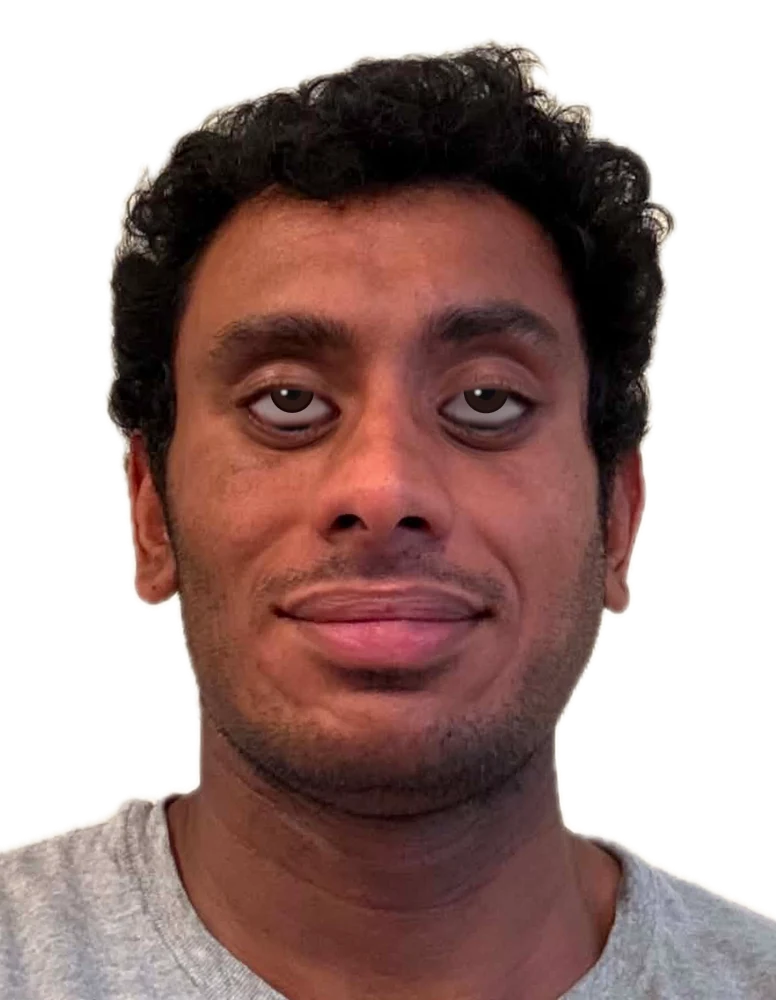
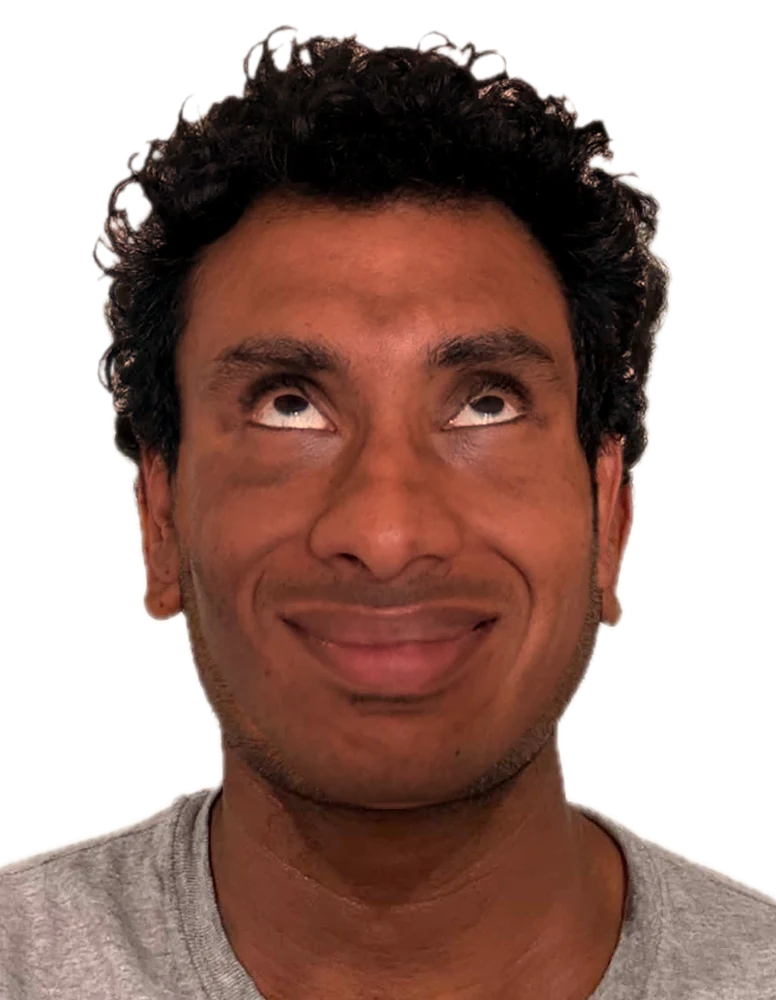
Use the real adit5 photo for the looking-up pose, in the grey t-shirt
adit5 was shot in a hoodie and cooler light. compose_lookup.py cuts its head
along the jawline, drops the hoodie, sets it on adit3's neck and t-shirt, and
warms the skin to match the other poses. Replaces the synthetic eye-widening
(make_lookup.py, removed).

diff --git a/scripts/eye_regions.swift b/scripts/eye_regions.swift
@@ -1,5 +1,5 @@
 // Print eye-contour and pupil landmarks (pixel coords, top-left origin) as JSON.
-// Used by make_lookup.py to synthesise the "looking up" pose from adit1.
+// Used by compose_lookup.py (jawline seam + skin sampling for the looking-up pose).
 //
 //   swift scripts/eye_regions.swift assets/adit1-cut.png
 
@@ -33,4 +33,5 @@ func pts(_ r: VNFaceLandmarkRegion2D?) -> String {
 
 print("{\"w\":\(Int(W)),\"h\":\(Int(H)),"
     + "\"leftEye\":\(pts(lm.leftEye)),\"rightEye\":\(pts(lm.rightEye)),"
-    + "\"leftPupil\":\(pts(lm.leftPupil)),\"rightPupil\":\(pts(lm.rightPupil))}")
+    + "\"leftPupil\":\(pts(lm.leftPupil)),\"rightPupil\":\(pts(lm.rightPupil)),"
+    + "\"faceContour\":\(pts(lm.faceContour))}")

diff --git a/scripts/compose_lookup.py b/scripts/compose_lookup.py
@@ -1,0 +1,140 @@
+#!/usr/bin/env python3
+"""
+Build the "looking up" pose (assets/adit5-cut) from the adit5 photo.
+
+The adit5 photo is a close crop in a hoodie; every other pose wears the grey
+t-shirt. So the head from adit5 is placed on the neck + t-shirt of adit3 (also
+a looking-up pose, so the neck angle matches). Both are already registered to
+the shared eye anchor by build_portraits.py, and their chins land within a few
+pixels of each other, so the seam can follow adit5's jawline.
+
+  head  = adit5 above its jawline, minus any hoodie fabric
+  body  = adit3 (neck + t-shirt), with the neck skin nudged toward adit5's tone
+
+Run after build_portraits.py:
+  /opt/anaconda3/bin/python3 scripts/compose_lookup.py
+"""
+from __future__ import annotations
+
+import json
+import pathlib
+import subprocess
+
+import numpy as np
+from PIL import Image
+from scipy import ndimage
+
+ROOT = pathlib.Path(__file__).resolve().parent.parent
+HEAD = ROOT / "scripts" / "_lifted" / "adit5-head.png"
+BODY = ROOT / "assets" / "adit3-cut.png"
+OUT = ROOT / "assets" / "adit5-cut"
+
+JAW_DROP = 4        # px below the detected jawline that still counts as head
+SEAM_FEATHER = 1.6  # px of blur on the head mask edge
+TONE_BLEND = 0.9    # how far to warm the head toward the body photo's skin tone
+
+
+def landmarks(path: pathlib.Path) -> dict:
+    out = subprocess.run(
+        ["swift", str(ROOT / "scripts" / "eye_regions.swift"), str(path)],
+        capture_output=True, text=True, check=True,
+    )
+    return json.loads([l for l in out.stdout.splitlines() if l.startswith("{")][-1])
+
+
+def jaw_curve(contour: np.ndarray, w: int) -> tuple[np.ndarray, int, int]:
+    """y of the jawline for each x inside the face contour (NaN outside)."""
+    c = contour[np.argsort(contour[:, 0])]
+    x0, x1 = int(np.ceil(c[0, 0])), int(np.floor(c[-1, 0]))
+    jaw = np.full(w, np.nan)
+    xs = np.arange(x0, x1 + 1)
+    # the contour runs ear -> chin -> ear, so for each x take its lowest point
+    lower = {}
+    for x, y in contour:
+        k = int(round(x))
+        lower[k] = max(lower.get(k, -1), y)
+    kx = np.array(sorted(lower)); ky = np.array([lower[k] for k in kx])
+    jaw[xs] = np.interp(xs, kx, ky)
+    return jaw, x0, x1
+
+
+def skin_mask(rgb: np.ndarray) -> np.ndarray:
+    r, g, b = rgb[..., 0], rgb[..., 1], rgb[..., 2]
+    return (r > g + 8) & (g > b - 6) & (r > 60) & (r < 245)
+
+
+def main() -> None:
+    head = np.asarray(Image.open(HEAD).convert("RGBA")).astype(float)
+    body = np.asarray(Image.open(BODY).convert("RGBA")).astype(float)
+    h, w, _ = head.shape
+    yy, xx = np.mgrid[0:h, 0:w]
+
+    lm = landmarks(HEAD)
+    contour = np.asarray(lm["faceContour"], float)
+    jaw, jx0, jx1 = jaw_curve(contour, w)
+    ear_y = contour[[0, -1], 1].mean()
+
+    # --- head mask -------------------------------------------------------
+    h_rgb, h_a = head[..., :3], head[..., 3] / 255.0
+    below_jaw = np.zeros((h, w), bool)
+    cols = np.arange(jx0, jx1 + 1)
+    below_jaw[:, cols] = yy[:, cols] > (jaw[cols] + JAW_DROP)[None, :]
+
+    # hoodie: grey, low-chroma fabric below ear level, connected to the frame
+    chroma = h_rgb.max(axis=2) - h_rgb.min(axis=2)
+    lum = h_rgb.mean(axis=2)
+    fabric = (h_a > 0.5) & (chroma < 28) & (lum > 55) & (lum < 215) & (yy > ear_y + 30)
+    fabric &= below_jaw | (xx < jx0) | (xx > jx1)  # beside or below the jaw
+    lbl, n = ndimage.label(fabric)
+    hood = np.zeros_like(fabric)
+    if n:
+        sizes = ndimage.sum(fabric, lbl, index=np.arange(1, n + 1))
+        for i, s in enumerate(sizes, 1):
+            if s > 150:
+                hood |= lbl == i
+    hood = ndimage.binary_dilation(hood, iterations=3)
+    # anything below the bottom of the original crop beside the jaw is hood too
+    lowest_face = np.nanmax(jaw)
+    hood |= (yy > ear_y + 60) & ((xx < jx0) | (xx > jx1)) & (h_a > 0.5) & ~skin_mask(h_rgb)
+
+    keep = (h_a > 0.02) & ~below_jaw & ~hood
+    keep = ndimage.binary_opening(keep, iterations=1)
+    lbl, n = ndimage.label(keep)
+    if n > 1:
+        sizes = ndimage.sum(keep, lbl, index=np.arange(1, n + 1))
+        keep = lbl == (int(np.argmax(sizes)) + 1)
+    m = ndimage.gaussian_filter(keep.astype(float), SEAM_FEATHER) * h_a
+
+    # --- head: match its skin tone to the body photo's lighting ------------
+    # adit5 was shot in cooler, dimmer light; a per-channel gain measured on
+    # cheek/forehead skin warms it to match the other poses (dark hair stays dark)
+    b_rgb, b_a = body[..., :3], body[..., 3] / 255.0
+    b_contour = np.asarray(landmarks(BODY)["faceContour"], float)
+    b_jaw, bx0, bx1 = jaw_curve(b_contour, w)
+
+    def face_skin(rgb, a, jaw_line, x0, x1, top):
+        inside = np.zeros((h, w), bool)
+        c = np.arange(x0 + 25, x1 - 25)
+        inside[:, c] = (yy[:, c] < jaw_line[c][None, :] - 25) & (yy[:, c] > top)
+        return inside & skin_mask(rgb) & (a > 0.9)
+
+    eye_top = lm["leftEye"][0][1] - 60
+    src = face_skin(h_rgb, h_a, jaw, jx0, jx1, eye_top) & keep
+    dst = face_skin(b_rgb, b_a, b_jaw, bx0, bx1, eye_top)
+    gain = b_rgb[dst].mean(axis=0) / h_rgb[src].mean(axis=0)
+    gain = 1 + (gain - 1) * TONE_BLEND
+    h_rgb = (h_rgb * gain[None, None, :]).clip(0, 255)
+    print("head tone gain", np.round(gain, 3), f"(skin px: head {src.sum()}, body {dst.sum()})")
+
+    # --- composite: head over body -----------------------------------------
+    out_a = m + b_a * (1 - m)
+    out_rgb = (h_rgb * m[..., None] + b_rgb * (b_a * (1 - m))[..., None]) / np.maximum(out_a, 1e-6)[..., None]
+    out = np.dstack([out_rgb, out_a * 255]).clip(0, 255).astype(np.uint8)
+    im = Image.fromarray(out, "RGBA")
+    im.save(OUT.with_suffix(".png"), optimize=True)
+    im.save(OUT.with_suffix(".webp"), quality=88, method=6)
+    print("wrote", OUT.with_suffix(".png").name, "+ .webp")
+
+
+if __name__ == "__main__":
+    main()

diff --git a/scripts/build_portraits.py b/scripts/build_portraits.py
@@ -39,12 +39,16 @@ OUT_MAX_EDGE = 1000
 
 # `trim` shrinks the head about the eye midpoint (eyes stay locked) so every
 # pose reads at a similar overall size on swap — adit2 is shot closer.
-#   adit1 = base    adit2 = topic hover    adit3 = look left    adit4 = look right
+#   adit1 = base    adit2 = (unused)    adit3 / adit4 = look right / left
+#   adit5 = look up — registered to an intermediate file; compose_lookup.py then
+#           puts its head on the t-shirt body (the photo has a hoodie)
 JOBS = [
     {"src": "adit1.jpeg", "lifted": "adit1-cut.png", "out": "adit1-cut.png", "trim": 1.0},
     {"src": "adit2.png", "lifted": "adit2-cut.png", "out": "adit2-cut.png", "trim": 0.92},
     {"src": "adit3.jpeg", "lifted": "adit3-cut.png", "out": "adit3-cut.png", "trim": 1.0},
     {"src": "adit4.jpeg", "lifted": "adit4-cut.png", "out": "adit4-cut.png", "trim": 1.0},
+    {"src": "adit5.png", "lifted": "adit5-cut.png", "out": "adit5-head.png", "trim": 1.0,
+     "dir": LIFTED},
 ]
 
 
@@ -92,17 +96,20 @@ def register(lifted_path: pathlib.Path, eyes: dict, trim: float = 1.0) -> Image.
                         resample=Image.BICUBIC)
 
 
-def finish(im: Image.Image, out_name: str) -> None:
+def finish(im: Image.Image, out_name: str, out_dir: pathlib.Path = ASSETS) -> None:
     if max(im.size) > OUT_MAX_EDGE:
         k = OUT_MAX_EDGE / max(im.size)
         im = im.resize((round(im.width * k), round(im.height * k)), Image.LANCZOS)
-    ASSETS.mkdir(exist_ok=True)
-    im.save(ASSETS / out_name, optimize=True)
-    webp_name = out_name.rsplit(".", 1)[0] + ".webp"
-    im.save(ASSETS / webp_name, quality=88, method=6)
-    png_kb = (ASSETS / out_name).stat().st_size // 1024
-    webp_kb = (ASSETS / webp_name).stat().st_size // 1024
-    print(f"  {out_name}: {im.width}x{im.height}  (png {png_kb} KB / webp {webp_kb} KB)")
+    out_dir.mkdir(exist_ok=True)
+    im.save(out_dir / out_name, optimize=True)
+    png_kb = (out_dir / out_name).stat().st_size // 1024
+    if out_dir == ASSETS:
+        webp_name = out_name.rsplit(".", 1)[0] + ".webp"
+        im.save(ASSETS / webp_name, quality=88, method=6)
+        print(f"  {out_name}: {im.width}x{im.height}  (png {png_kb} KB / webp "
+              f"{(ASSETS / webp_name).stat().st_size // 1024} KB)")
+    else:
+        print(f"  {out_dir.name}/{out_name}: {im.width}x{im.height}  (intermediate)")
 
     stem = out_name.split("-")[0]
     for rgb, tag in [((210, 226, 234), "ice"), ((15, 20, 26), "dark")]:
@@ -116,7 +123,8 @@ if __name__ == "__main__":
     for job in JOBS:
         eyes = eye_points(job["src"])
         print(f"{job['src']}: eyes {eyes['eyeL']} {eyes['eyeR']}  trim={job['trim']}")
-        finish(register(LIFTED / job["lifted"], eyes, job["trim"]), job["out"])
+        finish(register(LIFTED / job["lifted"], eyes, job["trim"]), job["out"],
+               job.get("dir", ASSETS))
 
     scale = OUT_MAX_EDGE / max(CANVAS_W, CANVAS_H)
     print(

diff --git a/README.md b/README.md
@@ -12,7 +12,7 @@ portrait that reacts.
 | `adit1` | a topic word is hovered / focused / tapped | emoji pair drops over the eyes, themed glow |
 | `adit4` | cursor is anywhere left of the figure | he glances left, toward the cursor |
 | `adit3` | cursor is anywhere right of the figure | he glances right, toward the cursor |
-| `adit5` | cursor is above his head (within the figure's width) | looking up — synthesised from adit1, no photo |
+| `adit5` | cursor is above his head (within the figure's width) | looking up — adit5's head on the t-shirt body from adit3 |
 
 `adit2` (mouth open) is still built but no longer used on the page.
 
@@ -65,15 +65,19 @@ swift scripts/lift_subject.swift adit1.jpeg scripts/_lifted/adit1-cut.png
 swift scripts/lift_subject.swift adit2.png  scripts/_lifted/adit2-cut.png
 swift scripts/lift_subject.swift adit3.jpeg scripts/_lifted/adit3-cut.png
 swift scripts/lift_subject.swift adit4.jpeg scripts/_lifted/adit4-cut.png
+swift scripts/lift_subject.swift adit5.png  scripts/_lifted/adit5-cut.png
 
 # 2. detect eyes, register, clean, export  ->  assets/  (png + webp)
+#    (adit5 goes to scripts/_lifted/adit5-head.png for step 3)
 /opt/anaconda3/bin/python3 scripts/build_portraits.py
 
-# 3. derive the looking-up pose from adit1 (moves the irises up)  ->  assets/adit5-cut.*
-/opt/anaconda3/bin/python3 scripts/make_lookup.py
+# 3. looking-up pose: adit5's head on adit3's neck + grey t-shirt  ->  assets/adit5-cut.*
+/opt/anaconda3/bin/python3 scripts/compose_lookup.py
 ```
 
-`LIFT` at the top of `scripts/make_lookup.py` sets how far the eyes roll up.
+The adit5 photo was taken in a hoodie and cooler light, so `compose_lookup.py`
+cuts the head off along the jawline, drops the hoodie, puts it on adit3's body,
+and warms the skin to match (`TONE_BLEND`).
 
 Poses and per-pose `trim` (head-size match) are listed in `JOBS` at the top of
 `scripts/build_portraits.py`.
